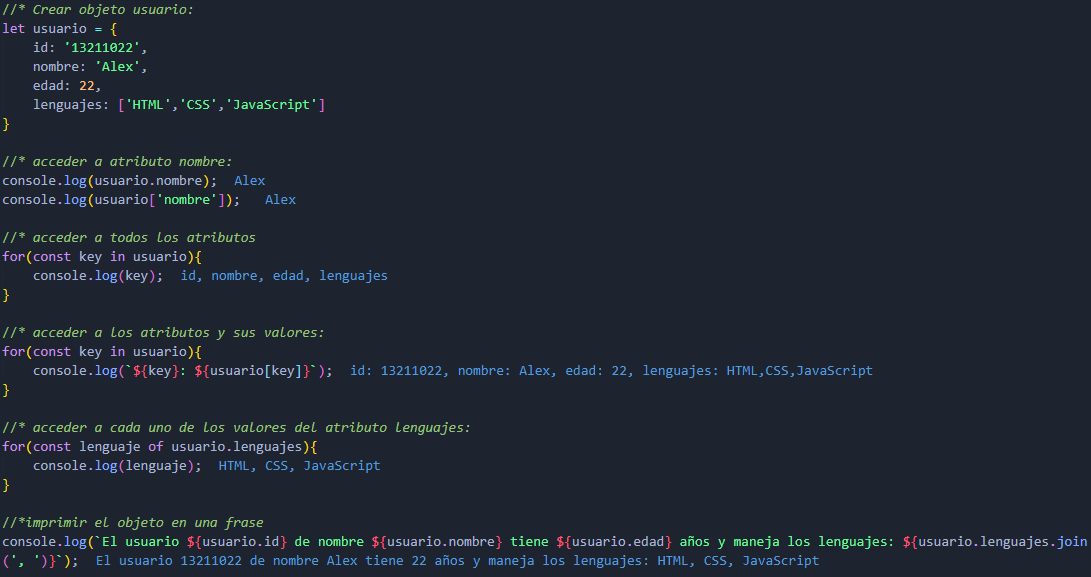
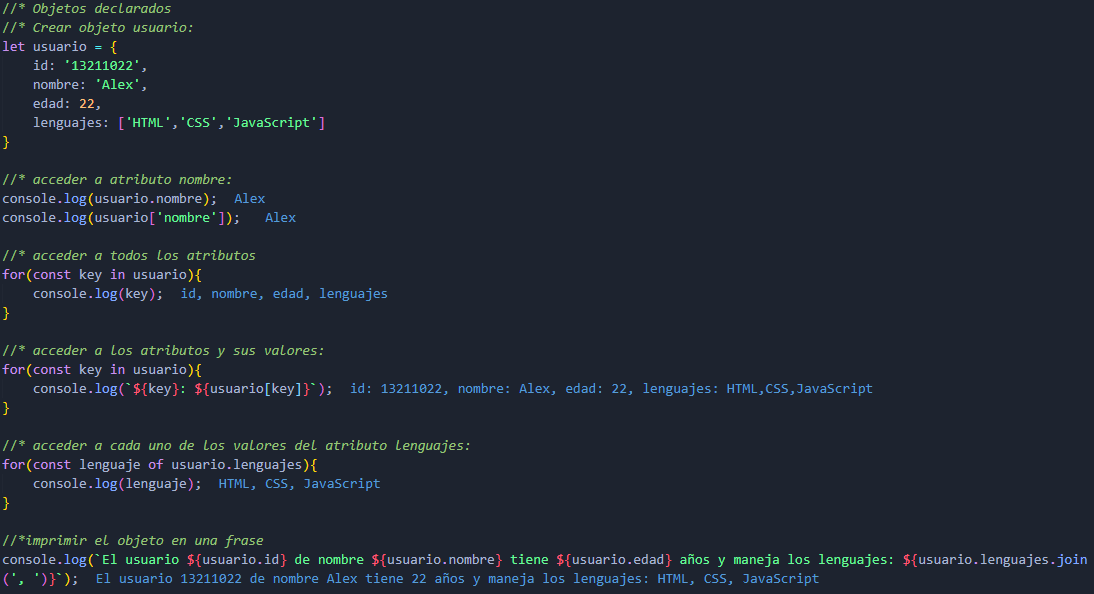
temas: POO: clases, objetos y ejercicio

diff --git a/JavaScript/POO.html b/JavaScript/POO.html
@@ -24,10 +24,34 @@
     <main>
         <section>
             <h2 class="titulo2">Programación orientada a objetos</h2>
+            <p>Es un paradigma de la programación que actualiza la forma de programar anterior (programación estructurada). Algunos de sus conceptos fundamentales son: </p>
+            <ul class="lista">
+                <li>Clases.</li>
+                <li>Propiedades.</li>
+                <li>Métodos.</li>
+                <li>Objetos.</li>
+                <li>Eventos.</li>
+                <li>Encapsulamiento.</li>
+                <li>Abstracción.</li>
+                <li>Herencia.</li>
+                <li>Polimorfismo.</li>
+            </ul>
+            <h3 class="titulo3">Clases:</h3>
+            <p>Son plantillas/modelos sobre las cuales se pueden crear objetos nuevos. Estas inician con mayúsculas y deben tener una funcion constructor, la cual contiene los parámetros mínimos que necesita un objeto para existir y asi poder dar un estado inicial a los objetos creados a partir de la clase.</p>
+            <h4 class="titulo4">Propiedades:</h4>
+            <p>Son los atributos o características de los objetos. Estas se definen tanto en los parámetros del constructor como dentro de la misma funcion para así inicializar los objetos. Tambien se pueden añadir propiedades que no esten en los parámetros pero siempre utilizando this para referenciar al objeto.</p>
+            <img src="../assets/images/POOJS4.png" alt="Ejemplo clase" class="img">
+            <h4 class="titulo4">Métodos:</h4>
+            <p>Se denomina métodos a las funciones asociadas a los comportamientos o acciones que realizan los objetos.</p>
+            <img src="../assets/images/POOJS5.png" alt="Ejemplo clase con método" class="img">
             <h3 class="titulo3">Objetos:</h3>
-            <p>Son estrucutras de datos que representan propiedades, valores y acciones que puede realizar el objeto. Todos los objetos tienen propiedades o atributos y comportamientos y acciones representados por pares de clave: valor.</p>
+            <p>Son estrucutras de datos que representan instancias de clases. Todos los objetos tienen propiedades o atributos y comportamientos y acciones representados por pares de clave: valor.</p>
             <p>Para acceder a las propiedades y acciones del objeto se utiliza la nomeclatura del punto.</p>
-            <img src="../assets/images/POOJS1.png" alt="ejemplo objetos" class="img">
+            <p>Hay 2 maneras de crear objetos:</p>
+            <h4 class="titulo4">Crear un objeto único declarandolo como una variable o constante:</h4>
+            <img src="../assets/images/POOJS1.png" alt="ejemplo objetos 1" class="img">
+            <h4 class="titulo4">Mediante clases usando new:</h4>
+            <img src="../assets/images/POOJS6.png" alt="ejemplo objetos 2" class="img">
             <h3 class="titulo3">Funciones o métodos:</h3>
             <h4 class="titulo4">Sintaxis:</h4>
             <img src="../assets/images/POOJS2.png" alt="Sintaxis funciones" class="img">
@@ -40,6 +64,15 @@
                 <li>Para utilizarlas se deben invocar.</li>
             </ul>
             <img src="../assets/images/POOJS3.png" alt="ejemplos funciones" class="img">
+            <h3 class="ejemplo">Ejercicio:</h3>
+            <img src="../assets/images/POOJS7.png" alt="ejercicio POO 1" class="img">
+            <img src="../assets/images/POOJS8.png" alt="ejercicio POO 2" class="img">
+            <img src="../assets/images/POOJS9.png" alt="ejercicio POO 3" class="img">
+            <ul class="listaNav">
+                <li><a href="javascript:appendBook()" class="link">Agregar libro</a></li>
+                <li><a href="javascript:showBooks()" class="link">Mostar libros</a></li>
+            </ul>
+            <ul class="lista" id="libros"></ul> 
         </section>   
     </main>
     <script src="POO.js"></script>

diff --git a/JavaScript/POO.js b/JavaScript/POO.js
@@ -1,4 +1,18 @@
-//* Objetos
+//* Clases
+class Persona{
+    constructor(nombre, apellido, edad){
+        this.nombre = nombre;
+        this.apellido = apellido;
+        this.edad = edad;
+
+    }
+
+    saludar(){
+        return `Hola, me llamo ${this.nombre} y tengo ${this.edad} años.`
+    }
+}
+
+//* Objetos declarados
 //* Crear objeto usuario:
 let usuario = {
     id: '13211022',
@@ -26,9 +40,24 @@ for(const lenguaje of usuario.lenguajes){
     console.log(lenguaje);
 }
 
-//*imprimir el objeto en una frase
+//* imprimir el objeto en una frase
 console.log(`El usuario ${usuario.id} de nombre ${usuario.nombre} tiene ${usuario.edad} años y maneja los lenguajes: ${usuario.lenguajes.join(', ')}`);
 
+//* Objetos a partir de clases:
+let persona1 = new Persona('Diego', 'Sandoval', 22);
+let persona2 = new Persona('Juan', 'Fernández', 22);
+
+//* acceder a atributos:
+console.log(persona1.nombre);
+console.log(persona2.nombre);
+
+//* acceder a todos los atributos es igual a llamar al objeto:
+console.log(persona1);
+console.log(persona2);
+
+//* invocar método saludar:
+console.log(persona1.saludar());
+console.log(persona2.saludar());
 
 //*Funciones
 //* sintaxis con fuction:
@@ -65,3 +94,75 @@ console.log(suma1(2, 1));
 let result = suma2(4, 1);
 
 console.log(result);
+
+//* Ejercicio: 
+class Book{
+    constructor(title, author, year, gender){
+        this.title = title;
+        this.author = author;
+        this.year = year;
+        this.gender = gender;
+    }
+
+    bookInfo() {
+        return `${this.title} es un libro de ${this.gender} escrito por ${this.author} en el año ${this.year}.`
+    }
+
+}
+
+let books = [];
+
+const appendBook = () => {
+    let title;
+    let author;
+    let year;
+    let gender;
+
+    do{
+        title = prompt('Introduce el título del libro');
+        if(title == ''){
+            alert('El titulo del libro no puede estar vacio');
+        }
+    } while (title == '');
+
+    do{
+        author = prompt('Introduce el autor del libro');
+        if(author == ''){
+            alert('El autor del libro no puede estar vacio');
+        }
+    } while (author == '');
+
+    do{
+        year = prompt('Introduce el año del libro');
+        if(year =='' || (isNaN(year) || year.length < 4)){
+            alert('El año debe ser un número de 4 digitos');
+        }
+    } while (year =='' || (isNaN(year) || year.length < 4));
+        
+    do{
+        gender = prompt('Introduce el género del libro');
+        gender.toLowerCase();
+        if(gender == ''){
+            alert('El genero del libro no puede estar vacio');
+        }
+    } while (gender == '');
+
+    books.push(new Book(title, author, year, gender));
+}
+
+const showBooks = () => {
+    let list = document.getElementById("libros");
+    let libro;
+    var li;
+    if(books.length == 0){
+        alert('No hay libros agregados');
+    } else {
+        list.insertAdjacentHTML('beforebegin', '<h3 class="titulo3">Libros</h3>');
+        for(let book of books){
+            li = document.createElement("li");
+            list.appendChild(li);
+            libro = document.createTextNode(book.bookInfo());
+            li.appendChild(libro);
+        }
+    }
+}
